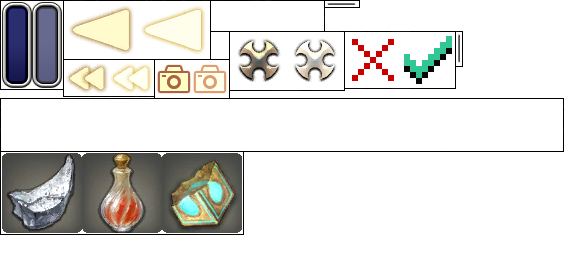
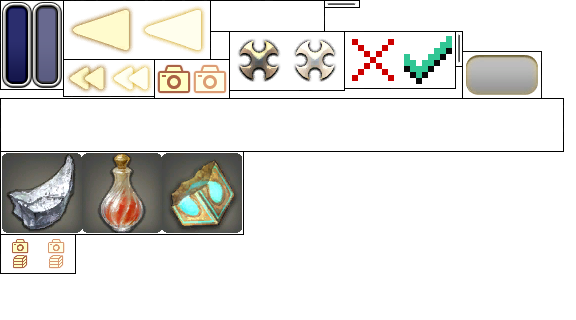
Lots of UiI adjustments

Changed region(s): [[0.0, 0.0, 0.9688, 0.4062], [0.0, 0.4688, 1.0, 0.9375]]

diff --git a/DeepDungeonTracker/Window/StatisticsWindow.cs b/DeepDungeonTracker/Window/StatisticsWindow.cs
@@ -14,6 +14,8 @@ public sealed class StatisticsWindow : WindowEx, IDisposable
 
     private Button ScreenshotButton { get; } = new ScreenshotButton();
 
+    private Button ScreenshotFolderButton { get; } = new ScreenshotFolderButton();
+
     private Button DoubleArrowButtonSummary { get; } = new DoubleArrowButton(false);
 
     private Button DoubleArrowButtonCurrent { get; } = new DoubleArrowButton(true);
@@ -25,6 +27,8 @@ public sealed class StatisticsWindow : WindowEx, IDisposable
     private Button CloseButton { get; } = new CloseButton();
 
     private IList<Button> FloorSetSummaryButtons { get; } = new List<Button>();
+
+    private IList<Button> PageNavigationButtons { get; } = new List<Button>();
 
     private IDictionary<uint, (uint, string)> ClassJobIds { get; }
 
@@ -55,7 +59,10 @@ public sealed class StatisticsWindow : WindowEx, IDisposable
         };
 
         for (int i = 0; i < 20; i++)
+        {
             this.FloorSetSummaryButtons.Add(new GenericButton());
+            this.PageNavigationButtons.Add(new NumberButton(i + 1));
+        }
     }
 
     public void Dispose() { }
@@ -97,6 +104,11 @@ public sealed class StatisticsWindow : WindowEx, IDisposable
             var size = this.GetSizeScaled() * (fontGlobalScale > 1.0f ? fontGlobalScale : 1.0f);
             var result = ScreenStream.Screenshot(ImGui.GetWindowPos(), size, Directories.Screenshots, fileName);
             Service.ChatGui.Print(result.Item1 ? $"{result.Item2} ({fileName})" : result.Item2);
+        }
+        else if (this.ScreenshotFolderButton.OnMouseLeftClick())
+        {
+            this.Data.Audio.PlaySound(SoundIndex.OnClick);
+            LocalStream.OpenFolder(Directories.Screenshots);
         }
     }
 
@@ -609,6 +621,37 @@ public sealed class StatisticsWindow : WindowEx, IDisposable
         this.DrawGotUsedText(x - leftPanelAdjust, y3 + iconSize, iconSize, statistics?.CoffersTotal, statistics?.PomandersTotal);
     }
 
+    public void PageNavigation()
+    {
+        var ui = this.Data.UI;
+        var x = 247.0f;
+        var y = 11.0f;
+
+        for (var i = 0; i < 20; i++)
+        {
+            if (this.PageNavigationButtons[i] is not NumberButton button)
+                continue;
+
+            button.Position = new(x + (i * 42.0f), y);
+            button.Color = Color.White;
+
+            if ((int)this.Data.Statistics.FloorSetStatistics == button.Number)
+            {
+                button.Color = Color.Yellow;
+                ui.DrawNumberButtonActive(button.Position.X - 2.0f, button.Position.Y - 2.0f);
+            }
+
+            if (button.OnMouseLeftClick())
+            {
+                this.Data.Audio.PlaySound(SoundIndex.OnClick);
+                this.Data.Statistics.FloorSetStatistics = (FloorSetStatistics)button.Number;
+                this.Data.Statistics.DataUpdate();
+            }
+
+            button.Draw(ui, this.Data.Audio);
+        }
+    }
+
     public override void Draw()
     {
         var statistics = this.Data.Statistics;
@@ -627,20 +670,22 @@ public sealed class StatisticsWindow : WindowEx, IDisposable
         ui.DrawBackground(width, height, (!config.SolidBackground && this.IsFocused) || config.SolidBackground);
 
         if (this.ClassJobIds.TryGetValue(statistics.ClassJobId, out var classJobId))
-            ui.DrawJob(leftPanelAdjust / 2.0f, 100.0f, classJobId.Item1);
+            ui.DrawJob(leftPanelAdjust / 2.0f, 110.0f, classJobId.Item1);
         else
-            ui.DrawJob(leftPanelAdjust / 2.0f, 100.0f, 17);
+            ui.DrawJob(leftPanelAdjust / 2.0f, 110.0f, 17);
 
         if (statistics.DeepDungeon != DeepDungeon.None)
-            ui.DrawDeepDungeon(width / 2.0f, 20.0f, statistics.DeepDungeon);
+            ui.DrawDeepDungeon(width - 446.0f, 6.0f, statistics.DeepDungeon);
 
-        this.ScreenshotButton.Position = new Vector2(15.0f, 160.0f);
-        this.DoubleArrowButtonSummary.Position = new(15.0f, 200.0f);
-        this.DoubleArrowButtonCurrent.Position = new(129.0f, 200.0f);
-        this.ArrowButtonPrevious.Position = new(51.0f, 200.0f);
-        this.ArrowButtonNext.Position = new(91.0f, 200.0f);
+        this.ScreenshotButton.Position = new Vector2(15.0f, 40.0f);
+        this.ScreenshotFolderButton.Position = new Vector2(45.0f, 40.0f);
+        this.DoubleArrowButtonSummary.Position = new(90.0f, 8.0f);
+        this.DoubleArrowButtonCurrent.Position = new(210.0f, 8.0f);
+        this.ArrowButtonPrevious.Position = new(130.0f, 7.0f);
+        this.ArrowButtonNext.Position = new(170.0f, 7.0f);
         this.CloseButton.Position = new(width - 35.0f, 7.0f);
         this.ScreenshotButton.Draw(ui, audio);
+        this.ScreenshotFolderButton.Draw(ui, audio);
         this.DoubleArrowButtonSummary.Draw(ui, audio);
         this.DoubleArrowButtonCurrent.Draw(ui, audio);
         this.ArrowButtonPrevious.Draw(ui, audio);
@@ -648,6 +693,8 @@ public sealed class StatisticsWindow : WindowEx, IDisposable
         this.CloseButton.Draw(ui, audio);
 
         ui.DrawDivisorHorizontal(14.0f, 34.0f, width - 26.0f);
+
+        this.PageNavigation();
 
         if (floorSet != null || floorSets?.Count() > 0)
         {

diff --git a/DeepDungeonTracker/UI/DataUI.cs b/DeepDungeonTracker/UI/DataUI.cs
@@ -48,11 +48,13 @@ public sealed class DataUI : IDisposable
 
     public Vector2 GetAxisTextSize(string text) => Render.GetTextSize(this.ResourceUI.Axis, text);
 
+    public Vector2 GetMiedingerMidLargeTextSize(string text) => Render.GetTextSize(this.ResourceUI.MiedingerMidLarge, text);
+
     public void DrawNumber(float x, float y, int number, bool isLargeNumber = false, Vector4? color = null, Alignment align = Alignment.Left) => this.Render.DrawNumber(this.ResourceUI.UI, x, y, 1.0f / (!isLargeNumber ? 3.0f : 2.0f), number, color, align);
 
     public void DrawCheckMark(float x, float y, bool checkMark) => this.Render.DrawUIElement(this.ResourceUI.UI, x, y, 0.5f, Convert.ToInt32(checkMark), 2, 1, new(346.0f, 33.0f), new(108.0f, 54.0f), null, Alignment.Center);
 
-    public void DrawDeepDungeon(float x, float y, DeepDungeon deepDungeon) => this.Render.DrawUIElement(this.ResourceUI.DeepDungeon, x, y, 0.75f, (int)deepDungeon - 1, 1, 3, align: Alignment.Center);
+    public void DrawDeepDungeon(float x, float y, DeepDungeon deepDungeon) => this.Render.DrawUIElement(this.ResourceUI.DeepDungeon, x, y, 0.75f, (int)deepDungeon - 1, 1, 3, align: Alignment.Left);
 
     public void DrawJob(float x, float y, uint jobId) => this.Render.DrawUIElement(this.ResourceUI.Job, x, y, 0.5f, (int)jobId, 4, 6, align: Alignment.Center);
 
@@ -72,6 +74,8 @@ public sealed class DataUI : IDisposable
 
     public void DrawScreenshotButton(float x, float y, bool isMouseOver) => this.Render.DrawUIElement(this.ResourceUI.UI, x, y, 0.75f, Convert.ToInt32(isMouseOver), 2, 1, new(156.0f, 61.0f), new(72.0f, 36.0f), null, Alignment.Left);
 
+    public void DrawScreenshotFolderButton(float x, float y, bool isMouseOver) => this.Render.DrawUIElement(this.ResourceUI.UI, x, y, 0.75f, Convert.ToInt32(isMouseOver), 2, 1, new(2.0f, 236.0f), new(72.0f, 36.0f), null, Alignment.Left);
+
     public void DrawArrowButton(float x, float y, bool isMouseOver, bool mirrorHorizontal = false) => this.Render.DrawUIElement(this.ResourceUI.UI, x, y, 0.5f, Convert.ToInt32(isMouseOver), 2, 1, new(65.0f, 2.0f), new(144.0f, 56.0f), null, Alignment.Left, mirrorHorizontal);
 
     public void DrawDoubleArrowButton(float x, float y, bool isMouseOver, bool mirrorHorizontal = false) => this.Render.DrawUIElement(this.ResourceUI.UI, x, y, 0.75f, Convert.ToInt32(isMouseOver), 2, 1, new(65.0f, 61.0f), new(88.0f, 34.0f), null, Alignment.Left, mirrorHorizontal);
@@ -79,6 +83,8 @@ public sealed class DataUI : IDisposable
     public void DrawCloseButton(float x, float y, bool isMouseOver) => this.Render.DrawUIElement(this.ResourceUI.UI, x, y, 0.5f, Convert.ToInt32(isMouseOver), 2, 1, new(231.0f, 33.0f), new(112.0f, 56.0f), null, Alignment.Left);
 
     public void DrawGenericButtonOver(float x, float y, float width, float height) => this.Render.DrawGenericButtonOver(this.ResourceUI.UI, x, y, width, height);
+
+    public void DrawNumberButtonActive(float x, float y) => this.Render.DrawUIElement(this.ResourceUI.UI, x, y, 0.5f, 0, 1, 1, new(464.0f, 53.0f), new(77.0f, 44.0f));
 
     public void DrawDivisorHorizontal(float x, float y, float width) => this.Render.DrawDivisorHorizontal(this.ResourceUI.UI, x, y, width);
 

diff --git a/DeepDungeonTracker/Window/ConfigurationWindow.cs b/DeepDungeonTracker/Window/ConfigurationWindow.cs
@@ -187,26 +187,10 @@ public sealed class ConfigurationWindow : WindowEx, IDisposable
         this.ColorEdit4(config.ScoreColor, x => config.ScoreColor = x, "Score");
         ImGui.SameLine();
         this.ColorEdit4(config.SummarySelectionColor, x => config.SummarySelectionColor = x, "Summary Selection");
-        ImGui.NewLine();
 
         var saveSlotSelection = this.Data.Common.SaveSlotSelection.GetData();
         if (saveSlotSelection?.Count > 0)
         {
-            this.IconButton(statistics.FloorSetStatisticsSummary, FontAwesomeIcon.AngleDoubleLeft, "Summary");
-
-            ImGui.SameLine();
-            this.IconButton(statistics.FloorSetStatisticsPrevious, FontAwesomeIcon.AngleLeft, "Left");
-
-            ImGui.SameLine();
-            this.IconButton(statistics.FloorSetStatisticsNext, FontAwesomeIcon.AngleRight, "Right");
-
-            ImGui.SameLine();
-            this.IconButton(statistics.FloorSetStatisticsCurrent, FontAwesomeIcon.AngleDoubleRight, "Current");
-
-            ImGui.SameLine();
-            if (this.Combo(statistics.FloorSetStatistics, x => statistics.FloorSetStatistics = x, "##FloorSetStatistics").Item1)
-                statistics.DataUpdate();
-
             foreach (var saveSlot in saveSlotSelection)
             {
                 ImGui.NewLine();
@@ -265,9 +249,6 @@ public sealed class ConfigurationWindow : WindowEx, IDisposable
         this.IconButton(() => { LocalStream.OpenFolder(Directories.Backups); }, FontAwesomeIcon.FolderOpen, "BackupsFolderOpen");
         ImGui.SameLine();
         ImGui.Text("Backups");
-        this.IconButton(() => { LocalStream.OpenFolder(Directories.Screenshots); }, FontAwesomeIcon.FolderOpen, "ScreenshotsFolderOpen");
-        ImGui.SameLine();
-        ImGui.Text("Screenshots");
         var fileNames = LocalStream.GetFileNamesFromDirectory(Directories.Backups).Where(x => LocalStream.IsExtension(x, ".json")).ToArray();
         if (fileNames.Length > 0)
         {

diff --git a/DeepDungeonTracker/UI/NumberButton.cs b/DeepDungeonTracker/UI/NumberButton.cs
@@ -1,0 +1,23 @@
+using System.Numerics;
+
+namespace DeepDungeonTracker;
+
+public sealed class NumberButton : Button
+{
+    public int Number { get; set; }
+
+    public Vector4 Color { get; set; }
+
+    public NumberButton(int number, float width = 0.0f, float height = 0.0f) : base(new(width, height)) => this.Number = number;
+
+    public override void Draw(DataUI ui, DataAudio audio)
+    {
+        base.Draw(ui, audio);
+        var text = $"{this.Number}";
+        this.Size = ui.GetMiedingerMidLargeTextSize("00");
+        var textSize = ui.GetMiedingerMidLargeTextSize(text);
+        var centerX = this.Position.X + (this.Size.X / 2.0f) - (textSize.X / 2.0f);
+        var centerY = this.Position.Y + (this.Size.Y / 2.0f) - (textSize.Y / 2.0f);
+        ui.DrawTextMiedingerMidLarge(centerX, centerY, text, this.Color, Alignment.Left);
+    }
+}

diff --git a/DeepDungeonTracker/UI/ScreenshotFolderButton.cs b/DeepDungeonTracker/UI/ScreenshotFolderButton.cs
@@ -1,0 +1,12 @@
+namespace DeepDungeonTracker;
+
+public sealed class ScreenshotFolderButton : Button
+{
+    public ScreenshotFolderButton() : base(new(27.0f, 27.0f)) { }
+
+    public override void Draw(DataUI ui, DataAudio audio)
+    {
+        base.Draw(ui, audio);
+        ui.DrawScreenshotFolderButton(this.Position.X, this.Position.Y, this.IsMouseOver);
+    }
+}
